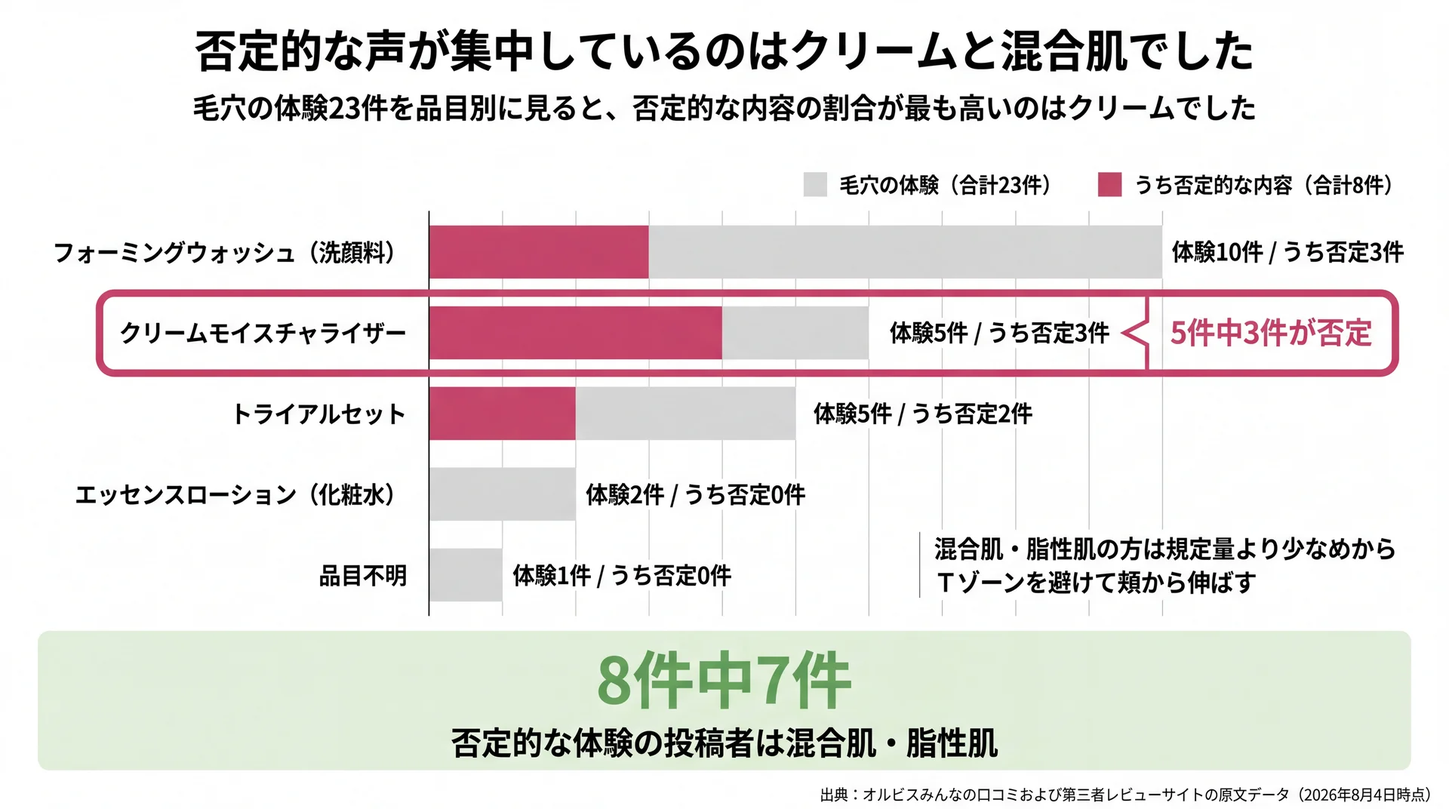
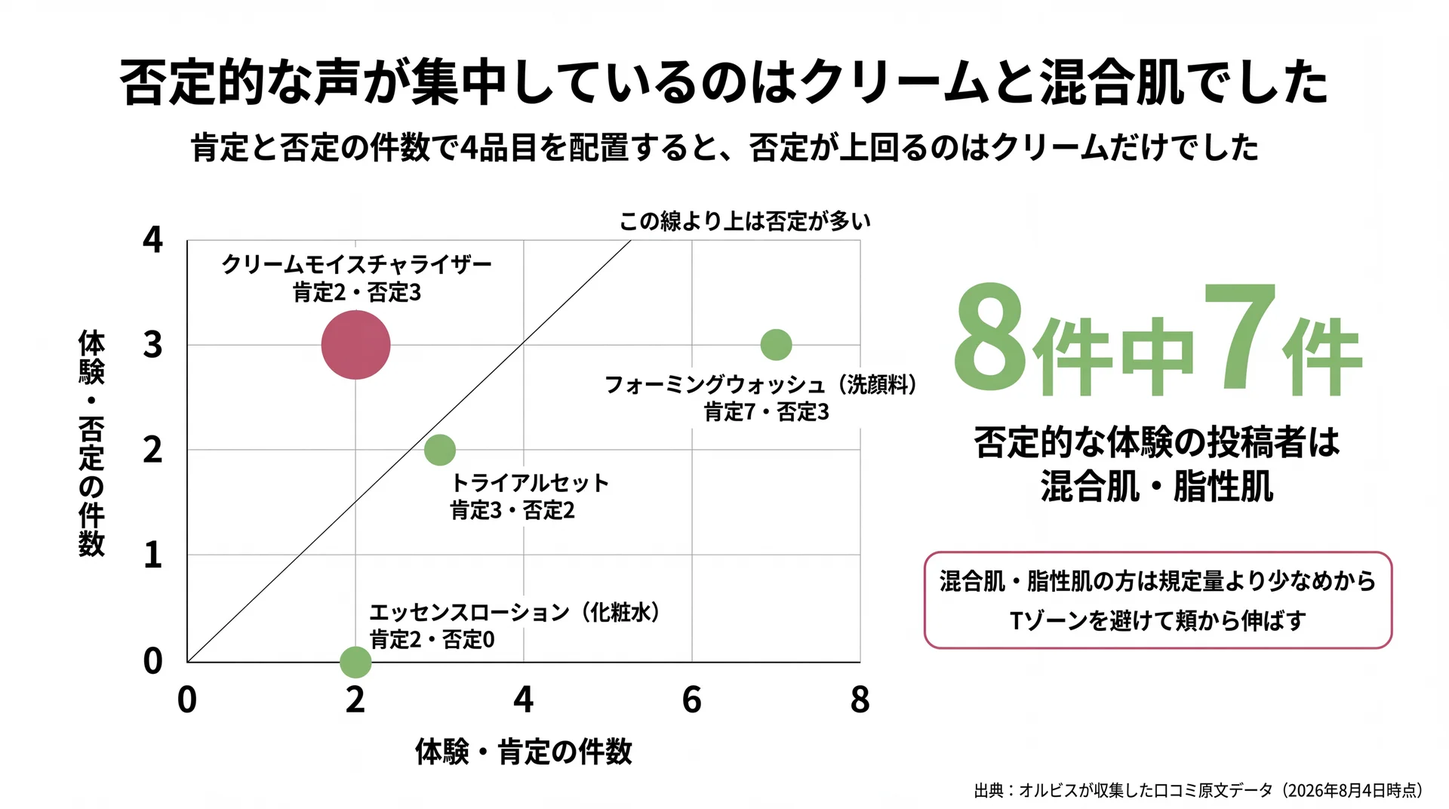
publish: orbis-u-dot-pore-visible-v3

diff --git a/2026/08/orbis-u-dot-pore-visible-v3.html b/2026/08/orbis-u-dot-pore-visible-v3.html
@@ -59,10 +59,10 @@
 <!-- wp:group {"style":{"border":{"radius":"16px","color":"#088010","style":"solid","width":"1px"},"spacing":{"padding":{"top":"24px","right":"20px","bottom":"24px","left":"20px"}}},"layout":{"type":"constrained"}} -->
 <div class="wp-block-group has-border-color" style="border-color:#088010;border-style:solid;border-width:1px;border-radius:16px;padding-top:24px;padding-right:20px;padding-bottom:24px;padding-left:20px">
 <!-- wp:paragraph {"align":"center","style":{"typography":{"fontWeight":"700"}}} -->
-<p class="has-text-align-center" style="font-weight:700">＼ 特別セット7日間分980円 ／</p>
+<p class="has-text-align-center" style="font-weight:700">＼ 7日間トライアル980円 ／</p>
 <!-- /wp:paragraph -->
 <!-- wp:paragraph {"align":"center"} -->
-<p class="has-text-align-center">洗顔料・化粧水・クリームの3STEPが7日間分入っています。<br>＊オルビス初めての方限定</p>
+<p class="has-text-align-center">洗顔・化粧水・クリームの3STEPが7日間分入っています。</p>
 <!-- /wp:paragraph -->
 <!-- wp:buttons {"layout":{"type":"flex","justifyContent":"center"}} -->
 <div class="wp-block-buttons is-content-justification-center is-layout-flex wp-container-content-justification-center wp-block-buttons-is-layout-flex"><!-- wp:button {"style":{"border":{"radius":"999px"},"color":{"background":"#40A800","text":"#ffffff"}}} -->
@@ -71,26 +71,26 @@
 <!-- /wp:buttons -->
 </div>
 <!-- /wp:group --><h2 style="font-size:24px; font-weight:600; margin:32px 0 16px; padding-bottom:8px; border-bottom:1px solid #eaeef2; line-height:1.3;">毛穴が目立つという声は口コミ859件のうち何件あったのか</h2>
-<p style="margin:14px 0; line-height:1.7;"><img src="https://shun-toda.github.io/html-publish/2026/08/orbis-u-dot-pore-visible-v3/h2_01_%E5%8F%A3%E3%82%B3%E3%83%9F859%E4%BB%B6_%E5%86%85%E8%A8%B3.webp" alt="口コミ859件のうち集計対象852件から毛穴に言及した46件、体験23件、目立つようになった体験8件へと絞り込んだ内訳の図" loading="lazy" style="max-width:100%; height:auto; display:block; margin:16px auto; border-radius:6px;" /><br><em>集計対象852件のうち毛穴が目立つようになった体験は8件で、うち7件が混合肌・脂性肌でした（オルビスみんなの口コミおよび第三者レビューサイトの原文データに基づく）</em></p>
-<p style="margin:14px 0; line-height:1.7;">オルビスユー ドットの口コミ859件を集め、対象外を除いた852件のうち、毛穴に触れていた投稿は46件でした。内訳は、自分の毛穴の変化を書いた体験が23件、それ以外が23件です。体験23件のうち、毛穴が目立つようになったという否定的な内容は8件でした。</p>
+<p style="margin:14px 0; line-height:1.7;"><img src="https://shun-toda.github.io/html-publish/2026/08/orbis-u-dot-pore-visible-v3/h2_01_%E5%8F%A3%E3%82%B3%E3%83%9F859%E4%BB%B6_%E5%86%85%E8%A8%B3.webp" alt="口コミ852件から毛穴に言及した46件、体験23件、目立つようになった体験8件へと絞り込んだ内訳の図" loading="lazy" style="max-width:100%; height:auto; display:block; margin:16px auto; border-radius:6px;" /><br><em>集計対象852件のうち毛穴が目立つようになった体験は8件で、うち7件が混合肌・脂性肌でした（オルビスが収集した口コミ原文データに基づく）</em></p>
+<p style="margin:14px 0; line-height:1.7;">オルビスユー ドットの口コミ859件を集め、対象外を除いた852件のうち、毛穴に触れていた投稿は46件でした。内訳は、自分の毛穴の変化を書いた体験が23件、それ以外が23件です。体験23件をさらに分けると、目立ちにくくなったという肯定が15件、目立つようになったという否定が8件でした。</p>
 <h3 style="font-size:20px; font-weight:600; margin:24px 0 12px; line-height:1.3;">毛穴に触れた投稿は46件、否定的な体験は8件</h3>
-<p style="margin:14px 0; line-height:1.7;">検索結果を眺めるだけでは、毛穴が目立つようになったという声がどれだけあるのかは分かりません。オルビスはオルビスみんなの口コミと第三者のレビューサイトから集めた859件の原文を1件ずつ読み、毛穴に触れた投稿を抜き出して分類しました。</p>
+<p style="margin:14px 0; line-height:1.7;">インターネット上には「毛穴が目立つ」という投稿も「目立たなくなった」という投稿も並んでおり、どちらが多いのかは検索結果を眺めるだけでは分かりません。そこでオルビスは、公式サイトと第三者のレビューサイトから集めた859件の原文を1件ずつ読み、毛穴に触れた投稿を抜き出して分類しました。結果が下の表です。</p>
 <div style="overflow-x:auto; margin:18px 0;"><table style="border-collapse:collapse; width:100%; font-size:14px;">
 <thead style="background:#f6f8fa;">
 <tr>
 <th style="border:1px solid #d0d7de; padding:8px 12px; text-align:left; font-weight:600;">収集元</th>
 <th style="border:1px solid #d0d7de; padding:8px 12px; text-align:right; font-weight:600;">収集件数</th>
 <th style="border:1px solid #d0d7de; padding:8px 12px; text-align:right; font-weight:600;">毛穴に言及</th>
-<th style="border:1px solid #d0d7de; padding:8px 12px; text-align:right; font-weight:600;">毛穴の体験</th>
-<th style="border:1px solid #d0d7de; padding:8px 12px; text-align:right; font-weight:600;">うち否定的な内容</th>
+<th style="border:1px solid #d0d7de; padding:8px 12px; text-align:right; font-weight:600;">体験・肯定</th>
+<th style="border:1px solid #d0d7de; padding:8px 12px; text-align:right; font-weight:600;">体験・否定</th>
 <th style="border:1px solid #d0d7de; padding:8px 12px; text-align:right; font-weight:600;">体験ではない</th>
 </tr>
 </thead>
 <tbody><tr>
-<td style="border:1px solid #d0d7de; padding:8px 12px;">オルビスみんなの口コミ（公式サイト）</td>
+<td style="border:1px solid #d0d7de; padding:8px 12px;">オルビス公式サイト</td>
 <td style="border:1px solid #d0d7de; padding:8px 12px; text-align:right;">318</td>
 <td style="border:1px solid #d0d7de; padding:8px 12px; text-align:right;">15</td>
-<td style="border:1px solid #d0d7de; padding:8px 12px; text-align:right;">13</td>
+<td style="border:1px solid #d0d7de; padding:8px 12px; text-align:right;">9</td>
 <td style="border:1px solid #d0d7de; padding:8px 12px; text-align:right;">4</td>
 <td style="border:1px solid #d0d7de; padding:8px 12px; text-align:right;">2</td>
 </tr>
@@ -98,7 +98,7 @@
 <td style="border:1px solid #d0d7de; padding:8px 12px;">第三者レビューサイトA</td>
 <td style="border:1px solid #d0d7de; padding:8px 12px; text-align:right;">88</td>
 <td style="border:1px solid #d0d7de; padding:8px 12px; text-align:right;">6</td>
-<td style="border:1px solid #d0d7de; padding:8px 12px; text-align:right;">2</td>
+<td style="border:1px solid #d0d7de; padding:8px 12px; text-align:right;">1</td>
 <td style="border:1px solid #d0d7de; padding:8px 12px; text-align:right;">1</td>
 <td style="border:1px solid #d0d7de; padding:8px 12px; text-align:right;">4</td>
 </tr>
@@ -106,7 +106,7 @@
 <td style="border:1px solid #d0d7de; padding:8px 12px;">第三者レビューサイトB</td>
 <td style="border:1px solid #d0d7de; padding:8px 12px; text-align:right;">382</td>
 <td style="border:1px solid #d0d7de; padding:8px 12px; text-align:right;">23</td>
-<td style="border:1px solid #d0d7de; padding:8px 12px; text-align:right;">6</td>
+<td style="border:1px solid #d0d7de; padding:8px 12px; text-align:right;">3</td>
 <td style="border:1px solid #d0d7de; padding:8px 12px; text-align:right;">3</td>
 <td style="border:1px solid #d0d7de; padding:8px 12px; text-align:right;">17</td>
 </tr>
@@ -122,7 +122,7 @@
 <td style="border:1px solid #d0d7de; padding:8px 12px;"><strong>合計</strong></td>
 <td style="border:1px solid #d0d7de; padding:8px 12px; text-align:right;"><strong>852</strong></td>
 <td style="border:1px solid #d0d7de; padding:8px 12px; text-align:right;"><strong>46</strong></td>
-<td style="border:1px solid #d0d7de; padding:8px 12px; text-align:right;"><strong>23</strong></td>
+<td style="border:1px solid #d0d7de; padding:8px 12px; text-align:right;"><strong>15</strong></td>
 <td style="border:1px solid #d0d7de; padding:8px 12px; text-align:right;"><strong>8</strong></td>
 <td style="border:1px solid #d0d7de; padding:8px 12px; text-align:right;"><strong>23</strong></td>
 </tr>
@@ -131,17 +131,16 @@
 <ul style="margin:14px 0; padding-left:1.6em; line-height:1.7;">
 <li style="margin:4px 0;">対象：オルビスユー ドットシリーズ4品（フォーミングウォッシュ／エッセンスローション／クリームモイスチャライザー／トライアルセット）のレビュー原文</li>
 <li style="margin:4px 0;">N数：859件（2026年8月4日時点で取得）。うちモール1サイト7件は本文と評価の紐付けが取れず対象外商品への投稿だったため除外し、852件を集計対象としました</li>
-<li style="margin:4px 0;">集計方法：本文またはタイトルに「毛穴」を含む投稿を全件抽出し、1件ずつ読んで体験か否か、毛穴が目立つようになったという否定的な内容かどうかを判定</li>
-<li style="margin:4px 0;">データ出典：オルビスみんなの口コミ、および第三者レビューサイト・大手通販サイトの投稿原文</li>
+<li style="margin:4px 0;">集計方法：本文またはタイトルに「毛穴」を含む投稿を全件抽出し、1件ずつ読んで体験か否か、肯定か否定かを判定</li>
+<li style="margin:4px 0;">データ出典：オルビスが収集した口コミ原文データ</li>
 </ul>
-<p style="margin:14px 0; line-height:1.7;">※分類のもとになった投稿はいずれも個人の感想であり、効果を保証するものではありません。投稿本文は原文のまま掲載せず、分類のうえ件数へ集約し、内容は要約しています。</p>
 <p style="margin:14px 0; line-height:1.7;"><span style="background:linear-gradient(transparent 60%,#FFFF00 60%)"><strong>毛穴について否定的な体験を書いていたのは、852件中8件でした。</strong></span>この8件のうち2件は本文が完全に一致しており、同じ投稿が2つのサイトに掲載されたものです。投稿者の実数としては7名になります。</p>
-<h3 style="font-size:20px; font-weight:600; margin:24px 0 12px; line-height:1.3;">注目すべきは件数の多寡ではなく、否定した8件の条件です</h3>
-<p style="margin:14px 0; line-height:1.7;">ただしオルビスは、否定的な体験が8件にとどまることをもって「毛穴の心配はない」と結論づけるのは早いと考えています。母数852件に対して毛穴に触れた投稿そのものが46件（5.4%）しかなく、毛穴は多くの利用者にとって主要な話題になっていないためです。<strong>大切なのは全体の多数決ではなく、否定した8件がどういう条件の人だったのか</strong>という点になります。</p>
-<p style="margin:14px 0; line-height:1.7;">なお、毛穴以外も含めた否定的な評価がどの論点に集中しているのか、効果が出ないと言われる理由や判断までにかかる期間の目安は、<a href="/column/udot-review/" style="color:#0969da; text-decoration:none; border-bottom:1px solid #eaeef2;">悪い口コミが何に集中しているかを検証した記事</a>で整理しています。年代を絞った評価の傾向については、<a href="/column/udot-review-40s/" style="color:#0969da; text-decoration:none; border-bottom:1px solid #eaeef2;">40代の口コミではどう評価されているか</a>をご覧ください。</p>
+<h3 style="font-size:20px; font-weight:600; margin:24px 0 12px; line-height:1.3;">肯定側は15件で、否定側の2倍近くありました</h3>
+<p style="margin:14px 0; line-height:1.7;">肯定側は15件で、否定側8件のおよそ2倍でした。ただしオルビスは、この比率だけで「毛穴の心配はない」と結論づけるのは早いと考えています。母数852件に対して毛穴に触れた投稿そのものが46件（5.4%）しかなく、毛穴は多くの利用者にとって主要な話題になっていないためです。<strong>大切なのは全体の多数決ではなく、否定した8件がどういう条件の人だったのか</strong>という点になります。</p>
+<p style="margin:14px 0; line-height:1.7;">なお、毛穴以外も含めた否定的な評価がどの論点に集中しているのかは、<a href="/column/udot-review/" style="color:#0969da; text-decoration:none; border-bottom:1px solid #eaeef2;">悪い口コミが何に集中しているかを検証した記事</a>で論点ごとに整理しています。効果が出ないと言われる理由や、判断までにかかる期間の目安もそちらで扱っています。年代を絞った評価の傾向については、<a href="/column/udot-review-40s/" style="color:#0969da; text-decoration:none; border-bottom:1px solid #eaeef2;">40代の口コミではどう評価されているか</a>をご覧ください。</p>
 <h2 style="font-size:24px; font-weight:600; margin:32px 0 16px; padding-bottom:8px; border-bottom:1px solid #eaeef2; line-height:1.3;">「毛穴」を含む投稿の半数は毛穴の体験談ではありませんでした</h2>
-<p style="margin:14px 0; line-height:1.7;"><img src="https://shun-toda.github.io/html-publish/2026/08/orbis-u-dot-pore-visible-v3/h2_02_%E4%BD%93%E9%A8%93%E8%AB%87%E3%81%8B%E5%90%A6%E3%81%8B.webp" alt="毛穴に言及した46件の体験と非体験の割合を、収集元ごとに並べた比較の図" loading="lazy" style="max-width:100%; height:auto; display:block; margin:16px auto; border-radius:6px;" /><br><em>公式サイトは15件中13件が体験、第三者レビューサイトBは23件中17件が体験ではありませんでした（オルビスみんなの口コミおよび第三者レビューサイトの原文データに基づく）</em></p>
-<p style="margin:14px 0; line-height:1.7;">毛穴に触れた46件のうち、実際に自分の毛穴の変化を書いていたのは23件で、残る23件は体験ではありませんでした。商品説明の転記やハッシュタグだけの記載などが含まれ、今回の集計では投稿数の多いサイトほどこの比率が高くなりました。</p>
+<p style="margin:14px 0; line-height:1.7;"><img src="https://shun-toda.github.io/html-publish/2026/08/orbis-u-dot-pore-visible-v3/h2_02_%E4%BD%93%E9%A8%93%E8%AB%87%E3%81%8B%E5%90%A6%E3%81%8B.webp" alt="毛穴に言及した46件の体験と非体験の割合を、収集元ごとに並べた比較の図" loading="lazy" style="max-width:100%; height:auto; display:block; margin:16px auto; border-radius:6px;" /><br><em>公式サイトは15件中13件が体験、第三者レビューサイトBは23件中17件が体験ではありませんでした（オルビスが収集した口コミ原文データに基づく）</em></p>
+<p style="margin:14px 0; line-height:1.7;">毛穴に触れた46件のうち、実際に自分の毛穴の変化を書いていたのは23件で、残る23件は体験ではありませんでした。商品説明の転記、ハッシュタグだけの記載、他商品の話、購入動機のみの記述などが含まれます。投稿数の多いサイトほどこの比率が高くなる傾向がありました。</p>
 <h3 style="font-size:20px; font-weight:600; margin:24px 0 12px; line-height:1.3;">体験ではなかった23件の内訳</h3>
 <p style="margin:14px 0; line-height:1.7;">「毛穴」という語を含むだけで体験談として読むと、実際の使用結果とは無関係な投稿まで判断材料に入ってしまいます。46件を読み分けた結果、体験ではなかった23件は次の5類型に整理できました。</p>
 <div style="overflow-x:auto; margin:18px 0;"><table style="border-collapse:collapse; width:100%; font-size:14px;">
@@ -180,23 +179,23 @@
 </tbody></table></div>
 <p style="margin:14px 0; line-height:1.7;">このうち「他商品の話」8件は、複数商品を並べたまとめ投稿の中にオルビスユー ドットが1行だけ登場するもので、毛穴の記述は別の商品についてでした。<span style="color:red"><strong>検索で見つかる投稿の半数は、その商品の毛穴の結果を書いたものではありません。</strong></span></p>
 <h3 style="font-size:20px; font-weight:600; margin:24px 0 12px; line-height:1.3;">投稿数が多いサイトほど体験の比率が下がります</h3>
-<p style="margin:14px 0; line-height:1.7;">第三者レビューサイトBでは毛穴に言及した23件のうち17件（約74%）が体験ではありませんでした。一方でオルビス公式サイトは15件中13件が体験で、非体験は2件だけです。</p>
-<p style="margin:14px 0; line-height:1.7;">この差は、投稿の集め方の違いから生まれています。第三者レビューサイトBには提供を受けた投稿やキャンペーン参加の投稿が多く、商品説明がそのまま本文に転記されているケースが目立ちました。<strong>オルビスは、口コミを件数の多さで比べるのではなく、その1件が実際の使用体験かどうかで読んでいただきたいと考えています。</strong>投稿を開いたら、まず本文に自分の肌の変化が書かれているかを確認してみてください。それだけで判断材料の質は大きく変わります。</p>
+<p style="margin:14px 0; line-height:1.7;">サイト別に見ると差がはっきりします。第三者レビューサイトBでは毛穴に言及した23件のうち17件（約74%）が体験ではありませんでした。一方でオルビス公式サイトは15件中13件が体験で、非体験は2件だけです。</p>
+<p style="margin:14px 0; line-height:1.7;">この差は、投稿の集め方の違いから生まれています。第三者レビューサイトBには提供を受けた投稿やキャンペーン参加の投稿が多く、商品説明がそのまま本文に転記されているケースが目立ちました。<strong>オルビスは、口コミを件数の多さで比べるのではなく、その1件が実際の使用体験かどうかで読んでいただきたいと考えています。</strong>投稿を開いたら、まず本文に自分の肌の変化が書かれているかを確認する。それだけで判断材料の質は大きく変わります。</p>
 <h2 style="font-size:24px; font-weight:600; margin:32px 0 16px; padding-bottom:8px; border-bottom:1px solid #eaeef2; line-height:1.3;">否定的な声が集中しているのはクリームと混合肌でした</h2>
-<p style="margin:14px 0; line-height:1.7;"><img src="https://shun-toda.github.io/html-publish/2026/08/orbis-u-dot-pore-visible-v3/h2_03_%E5%93%81%E7%9B%AE%E5%88%A5_%E8%82%8C%E8%B3%AA%E5%88%A5.webp" alt="品目別・肌質別に毛穴の体験件数と否定的な内容の件数を並べ、クリームと混合肌・脂性肌に否定が集中していることを示した図" loading="lazy" style="max-width:100%; height:auto; display:block; margin:16px auto; border-radius:6px;" /><br><em>否定的な体験の割合が最も高いのはクリームで、8件中7件は混合肌・脂性肌の方でした（オルビスみんなの口コミおよび第三者レビューサイトの原文データに基づく）</em></p>
-<p style="margin:14px 0; line-height:1.7;">否定的な体験8件を品目別に見ると、クリームモイスチャライザー3件、トライアルセット2件、フォーミングウォッシュ3件でした。投稿者の肌質では混合肌が6件、脂性肌が1件で、皮脂が出やすい肌質が8件中7件を占めています。</p>
+<p style="margin:14px 0; line-height:1.7;"><img src="https://shun-toda.github.io/html-publish/2026/08/orbis-u-dot-pore-visible-v3/h2_03_%E5%93%81%E7%9B%AE%E5%88%A5_%E8%82%8C%E8%B3%AA%E5%88%A5.webp" alt="肯定件数と否定件数を2軸に取り、4品目のうちクリームだけ否定が上回る位置にあることを示した配置図" loading="lazy" style="max-width:100%; height:auto; display:block; margin:16px auto; border-radius:6px;" /><br><em>否定が肯定を上回るのはクリームのみで、否定的な体験8件中7件は混合肌・脂性肌の方でした（オルビスが収集した口コミ原文データに基づく）</em></p>
+<p style="margin:14px 0; line-height:1.7;">否定的な体験8件を品目別に見ると、クリームモイスチャライザー3件、トライアルセット2件、フォーミングウォッシュ3件でした。投稿者の肌質では混合肌が6件、脂性肌が1件で、皮脂が出やすい肌質が8件中7件を占めています。肯定側15件とは分布がはっきり分かれました。</p>
 <h3 style="font-size:20px; font-weight:600; margin:24px 0 12px; line-height:1.3;">品目別・肌質別の分布</h3>
 <div style="overflow-x:auto; margin:18px 0;"><table style="border-collapse:collapse; width:100%; font-size:14px;">
 <thead style="background:#f6f8fa;">
 <tr>
 <th style="border:1px solid #d0d7de; padding:8px 12px; text-align:left; font-weight:600;">品目</th>
-<th style="border:1px solid #d0d7de; padding:8px 12px; text-align:right; font-weight:600;">毛穴の体験</th>
-<th style="border:1px solid #d0d7de; padding:8px 12px; text-align:right; font-weight:600;">うち否定的な内容</th>
+<th style="border:1px solid #d0d7de; padding:8px 12px; text-align:right; font-weight:600;">体験・肯定</th>
+<th style="border:1px solid #d0d7de; padding:8px 12px; text-align:right; font-weight:600;">体験・否定</th>
 </tr>
 </thead>
 <tbody><tr>
 <td style="border:1px solid #d0d7de; padding:8px 12px;">フォーミングウォッシュ（洗顔料）</td>
-<td style="border:1px solid #d0d7de; padding:8px 12px; text-align:right;">10</td>
+<td style="border:1px solid #d0d7de; padding:8px 12px; text-align:right;">7</td>
 <td style="border:1px solid #d0d7de; padding:8px 12px; text-align:right;">3</td>
 </tr>
 <tr>
@@ -206,12 +205,12 @@
 </tr>
 <tr>
 <td style="border:1px solid #d0d7de; padding:8px 12px;">クリームモイスチャライザー</td>
-<td style="border:1px solid #d0d7de; padding:8px 12px; text-align:right;">5</td>
+<td style="border:1px solid #d0d7de; padding:8px 12px; text-align:right;">2</td>
 <td style="border:1px solid #d0d7de; padding:8px 12px; text-align:right;">3</td>
 </tr>
 <tr>
 <td style="border:1px solid #d0d7de; padding:8px 12px;">トライアルセット</td>
-<td style="border:1px solid #d0d7de; padding:8px 12px; text-align:right;">5</td>
+<td style="border:1px solid #d0d7de; padding:8px 12px; text-align:right;">3</td>
 <td style="border:1px solid #d0d7de; padding:8px 12px; text-align:right;">2</td>
 </tr>
 <tr>
@@ -224,23 +223,23 @@
 <thead style="background:#f6f8fa;">
 <tr>
 <th style="border:1px solid #d0d7de; padding:8px 12px; text-align:left; font-weight:600;">投稿者の肌質</th>
-<th style="border:1px solid #d0d7de; padding:8px 12px; text-align:right; font-weight:600;">毛穴の体験</th>
-<th style="border:1px solid #d0d7de; padding:8px 12px; text-align:right; font-weight:600;">うち否定的な内容</th>
+<th style="border:1px solid #d0d7de; padding:8px 12px; text-align:right; font-weight:600;">体験・肯定</th>
+<th style="border:1px solid #d0d7de; padding:8px 12px; text-align:right; font-weight:600;">体験・否定</th>
 </tr>
 </thead>
 <tbody><tr>
 <td style="border:1px solid #d0d7de; padding:8px 12px;">混合肌</td>
-<td style="border:1px solid #d0d7de; padding:8px 12px; text-align:right;">8</td>
+<td style="border:1px solid #d0d7de; padding:8px 12px; text-align:right;">2</td>
 <td style="border:1px solid #d0d7de; padding:8px 12px; text-align:right;">6</td>
 </tr>
 <tr>
 <td style="border:1px solid #d0d7de; padding:8px 12px;">脂性肌</td>
-<td style="border:1px solid #d0d7de; padding:8px 12px; text-align:right;">1</td>
+<td style="border:1px solid #d0d7de; padding:8px 12px; text-align:right;">0</td>
 <td style="border:1px solid #d0d7de; padding:8px 12px; text-align:right;">1</td>
 </tr>
 <tr>
 <td style="border:1px solid #d0d7de; padding:8px 12px;">乾燥肌・乾性肌</td>
-<td style="border:1px solid #d0d7de; padding:8px 12px; text-align:right;">4</td>
+<td style="border:1px solid #d0d7de; padding:8px 12px; text-align:right;">3</td>
 <td style="border:1px solid #d0d7de; padding:8px 12px; text-align:right;">1</td>
 </tr>
 <tr>
@@ -259,17 +258,17 @@
 <td style="border:1px solid #d0d7de; padding:8px 12px; text-align:right;">0</td>
 </tr>
 </tbody></table></div>
-<p style="margin:14px 0; line-height:1.7;">体験件数に対する否定の割合が最も高いのはクリームモイスチャライザー（5件中3件）で、肌質では<span style="background:linear-gradient(transparent 60%,#FFFF00 60%)"><strong>否定8件のうち混合肌・脂性肌が7件</strong></span>を占めます。一方で敏感肌6件・普通肌1件からは否定的な体験が出ていません。同じ商品でも、肌質によって受け取り方がこれだけ分かれています。</p>
+<p style="margin:14px 0; line-height:1.7;">肯定側15件のうち敏感肌と乾燥肌・乾性肌が9件を占めるのに対し、<span style="background:linear-gradient(transparent 60%,#FFFF00 60%)"><strong>否定側は混合肌・脂性肌が7件</strong></span>です。同じ商品に対する評価が、肌質でこれだけ分かれています。</p>
 <h3 style="font-size:20px; font-weight:600; margin:24px 0 12px; line-height:1.3;">密着感の強い設計と、皮脂が出やすい条件での使い方</h3>
-<p style="margin:14px 0; line-height:1.7;">否定側の記述に共通していたのは、塗った後の膜のような感触とべたつきでした。これはクリームモイスチャライザーの設計と対応しています。オルビスはこのクリームに、<a href="https://www.orbis.co.jp/small/11010753/" style="color:#0969da; text-decoration:none; border-bottom:1px solid #eaeef2;">体温に触れるとしなやかに密着する成分と、うるおいを肌に閉じ込める成分</a>を意図して採用しています。</p>
-<p style="margin:14px 0; line-height:1.7;">密着させる設計である以上、皮脂が出やすい季節と肌質では量の調整が要ります。<strong>混合肌・脂性肌の方は、まず規定量より少なめから始め、Tゾーンを避けて頬から伸ばす</strong>使い方をおすすめします。なお、べたつきや重さそのものへの評価は毛穴とは別の論点であり、<a href="/column/udot-review/" style="color:#0969da; text-decoration:none; border-bottom:1px solid #eaeef2;">3品それぞれの評価の序列</a>は親ハブの記事で整理しています。</p>
+<p style="margin:14px 0; line-height:1.7;">否定側の記述に共通していたのは、塗った後の膜のような感触とべたつきでした。これはクリームモイスチャライザーの設計と対応しています。オルビスは、このクリームに<a href="https://www.orbis.co.jp/small/11010753/" style="color:#0969da; text-decoration:none; border-bottom:1px solid #eaeef2;">体温に触れるとしなやかに密着しハリ膜を形成する成分</a>（温度応答性弾力ポリマー＝メチルセルロース）と、うるおいを肌に閉じ込め、ハリのある肌を持続させる成分（ハイドロラッピングポリマー＝ポリエチレンワックス）を意図して採用しています。<a href="https://www.orbis.co.jp/mid/915/" style="color:#0969da; text-decoration:none; border-bottom:1px solid #eaeef2;">シリーズページ</a>では前者を「まろやかに伸びた後、皮膚温伝播で弾力の高い膜を形成」、後者を「水に強い油性成分のため、汗などで流れずに長時間留まる膜を形成して、うるおいを閉じ込める」と説明しています。否定側が書いていた膜のような感触は、この2つのポリマーが狙って作っている膜そのものです。</p>
+<p style="margin:14px 0; line-height:1.7;">密着させる設計である以上、皮脂が出やすい季節と肌質では量の調整が要ります。<strong>混合肌・脂性肌の方は、まず規定量より少なめから始め、Tゾーンを避けて頬から伸ばす</strong>使い方をおすすめします。オルビスがこの点を先にお伝えするのは、合わない条件を隠したまま買っていただくほうが、読者にとっての損失が大きいと考えているためです。なお、べたつきや重さそのものへの評価は毛穴とは別の論点として扱っており、3品それぞれの評価の序列は親ハブの記事で整理しています。</p>
 <!-- wp:group {"style":{"border":{"radius":"16px","color":"#088010","style":"solid","width":"1px"},"spacing":{"padding":{"top":"24px","right":"20px","bottom":"24px","left":"20px"}}},"layout":{"type":"constrained"}} -->
 <div class="wp-block-group has-border-color" style="border-color:#088010;border-style:solid;border-width:1px;border-radius:16px;padding-top:24px;padding-right:20px;padding-bottom:24px;padding-left:20px">
 <!-- wp:paragraph {"align":"center","style":{"typography":{"fontWeight":"700"}}} -->
-<p class="has-text-align-center" style="font-weight:700">＼ 特別セット7日間分980円 ／</p>
+<p class="has-text-align-center" style="font-weight:700">＼ 約44%OFF・数量限定 ／</p>
 <!-- /wp:paragraph -->
 <!-- wp:paragraph {"align":"center"} -->
-<p class="has-text-align-center">現品を買う前に、自分の肌で使用感を確かめられます。<br>＊オルビス初めての方限定</p>
+<p class="has-text-align-center">現品を買う前に、自分の肌で使用感を確かめられます。</p>
 <!-- /wp:paragraph -->
 <!-- wp:buttons {"layout":{"type":"flex","justifyContent":"center"}} -->
 <div class="wp-block-buttons is-content-justification-center is-layout-flex wp-container-content-justification-center wp-block-buttons-is-layout-flex"><!-- wp:button {"style":{"border":{"radius":"999px"},"color":{"background":"#40A800","text":"#ffffff"}}} -->
@@ -278,18 +277,19 @@
 <!-- /wp:buttons -->
 </div>
 <!-- /wp:group --><h2 style="font-size:24px; font-weight:600; margin:32px 0 16px; padding-bottom:8px; border-bottom:1px solid #eaeef2; line-height:1.3;">洗顔料は毛穴の汚れに向いているのか</h2>
-<p style="margin:14px 0; line-height:1.7;">フォーミングウォッシュで毛穴に触れた体験は10件で、うち否定的な内容は3件でした。否定3件はいずれも「汚れが落ちた手応えがない」「黒ずみのある毛穴は変わらなかった」という内容で、洗浄が足りないという方向です。オルビスはこの洗顔料の毛穴に関わる働きを、洗浄という物理的効果の範囲で説明しています。</p>
-<h3 style="font-size:20px; font-weight:600; margin:24px 0 12px; line-height:1.3;">洗顔料に触れた体験10件のうち否定は3件</h3>
-<p style="margin:14px 0; line-height:1.7;">毛穴に触れた洗顔料の投稿10件のうち7件は、洗い上がりの感触について書かれた内容でした。残る3件は、角栓や黒ずみが気になっていた方からの「変わらなかった」という記述です。<strong>つまり洗顔料に対する評価は、その方が何を毛穴の悩みだと捉えていたかで分かれています。</strong></p>
-<p style="margin:14px 0; line-height:1.7;">第三者評価としては、フォーミングウォッシュが<a href="https://www.orbis.co.jp/mid/915/" style="color:#0969da; text-decoration:none; border-bottom:1px solid #eaeef2;">2023年下半期のコスメアワード 洗顔部門1位</a>に選出されています。ただしこれは洗顔料としての総合評価であり、オルビスもこの受賞を毛穴の裏づけとしては示していません。</p>
+<p style="margin:14px 0; line-height:1.7;">フォーミングウォッシュへの毛穴に関する言及は、肯定7件・否定3件でした。否定3件はいずれも「汚れが落ちた手応えがない」「黒ずみのある毛穴は変わらなかった」という内容で、洗浄が足りないという方向です。オルビスはこの洗顔料の毛穴に関わる働きを、洗浄という物理的効果の範囲で説明しています。</p>
+<h3 style="font-size:20px; font-weight:600; margin:24px 0 12px; line-height:1.3;">洗顔料への言及は肯定7件・否定3件</h3>
+<p style="margin:14px 0; line-height:1.7;">毛穴に触れた洗顔料の投稿10件のうち7件は、洗い上がりのざらつきが減ったという内容でした。残る3件は、角栓や黒ずみが気になっていた方からの「変わらなかった」という記述です。<strong>つまり洗顔料に対する評価は、その方が何を毛穴の悩みだと捉えていたかで分かれています。</strong></p>
+<p style="margin:14px 0; line-height:1.7;">第三者評価としては、フォーミングウォッシュが<a href="https://www.orbis.co.jp/mid/915/" style="color:#0969da; text-decoration:none; border-bottom:1px solid #eaeef2;">VOCE 2023年下半期ベストコスメ洗顔部門1位</a>を受賞しています。ただしこれは洗顔料としての総合評価であり、毛穴に対する評価ではありません。オルビスとしても、この受賞を毛穴の裏づけとして示すことはしていません。</p>
 <h3 style="font-size:20px; font-weight:600; margin:24px 0 12px; line-height:1.3;">公式が洗顔料について表示している範囲</h3>
 <p style="margin:14px 0; line-height:1.7;">オルビスがフォーミングウォッシュの商品ページで表示しているのは、<a href="https://www.orbis.co.jp/small/11010751/" style="color:#0969da; text-decoration:none; border-bottom:1px solid #eaeef2;">蓄積した角層※1を絡めとる高密着マイルドピーリング※2洗顔料</a>という説明です（※1 剥がれずに肌に蓄積した古い角層／※2 洗浄による物理的効果）。肌荒れ防止有効成分としてグリチルリチン酸ジカリウムを配合した医薬部外品にあたります。</p>
+<p style="margin:14px 0; line-height:1.7;">絡めとる仕組みについて、オルビスは<a href="https://www.orbis.co.jp/mid/915/" style="color:#0969da; text-decoration:none; border-bottom:1px solid #eaeef2;">シリーズページ</a>で高密着泡成分（ヒドロキシプロピルメチルセルロース）が「吸着力をアップさせ蓄積した角層を絡めとりやすくする」と説明しています。またよくあるご質問では「スクラブやピーリング成分の配合はございません」と明記されており、マイルドピーリングという名称が指しているのは、あくまで泡の吸着による洗浄の範囲です。</p>
 <p style="margin:14px 0; line-height:1.7;">ここで<span style="color:red"><strong>「洗浄による物理的効果」と明示されている点が重要</strong></span>です。洗顔料が関与できるのは、表面に残っている汚れや古い角層を落とすところまでで、毛穴そのものの構造に働きかけるものではありません。角栓が主な原因だと感じている方が洗顔料だけで対処しようとすると、期待とのずれが生まれます。</p>
 <h2 style="font-size:24px; font-weight:600; margin:32px 0 16px; padding-bottom:8px; border-bottom:1px solid #eaeef2; line-height:1.3;">オルビスが毛穴を2つに分けている理由</h2>
-<p style="margin:14px 0; line-height:1.7;"><img src="https://shun-toda.github.io/html-publish/2026/08/orbis-u-dot-pore-visible-v3/h2_04_%E7%9A%AE%E8%84%82%E6%AF%9B%E7%A9%B4_%E5%B9%B4%E9%BD%A2%E6%AF%9B%E7%A9%B4.webp" alt="皮脂毛穴と年齢毛穴で公式が案内するお手入れが分かれ、オルビスユー ドットは年齢毛穴側に案内されていることを示した分岐図" loading="lazy" style="max-width:100%; height:auto; display:block; margin:16px auto; border-radius:6px;" /><br><em>オルビスユー ドットが案内されているのは年齢毛穴のほうで、Tゾーンの角栓・皮脂が悩みの場合は別のお手入れが案内されています（オルビスの公式よくあるご質問に基づく）</em></p>
+<p style="margin:14px 0; line-height:1.7;"><img src="https://shun-toda.github.io/html-publish/2026/08/orbis-u-dot-pore-visible-v3/h2_04_%E7%9A%AE%E8%84%82%E6%AF%9B%E7%A9%B4_%E5%B9%B4%E9%BD%A2%E6%AF%9B%E7%A9%B4.webp" alt="皮脂毛穴と年齢毛穴で案内するお手入れが分かれる流れと、化粧品の効能56項目に毛穴の項目がないことを示した図" loading="lazy" style="max-width:100%; height:auto; display:block; margin:16px auto; border-radius:6px;" /><br><em>原因の区分ごとに案内が変わり、集計に出た肌質の偏りとも重なりました（出典: オルビス公式よくあるご質問／厚生労働省 平成23年7月21日 薬食発0721第1号 別表第1）</em></p>
 <p style="margin:14px 0; line-height:1.7;">オルビスは公式のよくあるご質問で、毛穴が目立つ原因を皮脂毛穴と年齢毛穴の2つに分けて説明しています。そのうえで、うるおいを与えるスキンケアシリーズをおすすめしているのは年齢毛穴のほうです。この区分を知ると、口コミの評価が肌質で分かれた理由も説明がつきます。</p>
 <h3 style="font-size:20px; font-weight:600; margin:24px 0 12px; line-height:1.3;">公式のよくあるご質問における皮脂毛穴と年齢毛穴</h3>
-<p style="margin:14px 0; line-height:1.7;"><a href="https://faq.orbis.co.jp/faq/show/200?category_id=48&site_domain=open" style="color:#0969da; text-decoration:none; border-bottom:1px solid #eaeef2;">毛穴が目立つときのお手入れってどうするの？</a>というページで、オルビスは次のように区分しています（2026年8月時点）。</p>
+<p style="margin:14px 0; line-height:1.7;"><a href="https://faq.orbis.co.jp/faq/show/200?category_id=48&site_domain=open" style="color:#0969da; text-decoration:none; border-bottom:1px solid #eaeef2;">毛穴が目立つときのお手入れってどうするの？</a>というページで、オルビスは次のように区分しています。</p>
 <div style="overflow-x:auto; margin:18px 0;"><table style="border-collapse:collapse; width:100%; font-size:14px;">
 <thead style="background:#f6f8fa;">
 <tr>
@@ -308,25 +308,25 @@
 <tr>
 <td style="border:1px solid #d0d7de; padding:8px 12px;">年齢毛穴</td>
 <td style="border:1px solid #d0d7de; padding:8px 12px;">毛穴周りの皮膚が陥没して目立つ毛穴。年齢とともにハリを保つ成分が減ることで生じる</td>
-<td style="border:1px solid #d0d7de; padding:8px 12px;">うるおいを与え、エイジングケア※3を意識したシリーズ（オルビスユー、オルビスユー ドット等）</td>
-<td style="border:1px solid #d0d7de; padding:8px 12px;">敏感肌・乾燥肌からの否定的な体験は1件</td>
+<td style="border:1px solid #d0d7de; padding:8px 12px;">うるおいを与え、エイジングケア※を意識したシリーズ（オルビスユー、オルビスユー ドット等）</td>
+<td style="border:1px solid #d0d7de; padding:8px 12px;">肯定15件のうち敏感肌・乾燥肌が9件</td>
 </tr>
 </tbody></table></div>
-<p style="margin:14px 0; line-height:1.7;">※3 年齢に応じたお手入れのこと</p>
+<p style="margin:14px 0; line-height:1.7;">※ 年齢に応じたお手入れのこと</p>
 <p style="margin:14px 0; line-height:1.7;"><strong>公式が案内しているのは年齢毛穴に対してであり、皮脂毛穴には別のお手入れを挙げています。</strong>集計で出た肌質の偏りは、この区分とそのまま重なりました。</p>
 <h3 style="font-size:20px; font-weight:600; margin:24px 0 12px; line-height:1.3;">化粧品の効能の範囲に毛穴という語はありません</h3>
 <p style="margin:14px 0; line-height:1.7;">そもそも化粧品が表示できる効能は、厚生労働省の通知（平成23年7月21日 薬食発0721第1号）で56項目に定められています。この<a href="https://www.mhlw.go.jp/web/t_doc?dataId=00tb7518&dataType=1&pageNo=" style="color:#0969da; text-decoration:none; border-bottom:1px solid #eaeef2;">別表第1</a>には、（17）汚れをおとすことにより皮膚を清浄にする、（20）肌のキメを整える、といった項目が並びますが、<span style="background:linear-gradient(transparent 60%,#FFFF00 60%)"><strong>「毛穴」という語を含む項目は1つもありません</strong></span>（2026年8月時点）。</p>
-<p style="margin:14px 0; line-height:1.7;">そのため広告で毛穴に触れる場合は、洗浄やキメを整えることの結果として注釈付きで示す形になります。実際、オルビスユー ドット3品の商品ページ本文にも毛穴の訴求はありません（2026年8月時点）。医薬部外品として承認されている効能は、化粧水とクリームに配合された美白※4有効成分トラネキサム酸によるもので、こちらも毛穴とは別の話です（※4 メラニンの生成を抑え、シミ・ソバカスを防ぐ）。</p>
+<p style="margin:14px 0; line-height:1.7;">そのため広告で毛穴に触れる場合は、洗浄やキメを整えることの結果として注釈付きで示す形になります。実際、オルビスユー ドット3品の商品ページ本文にも毛穴の訴求はありません（2026年8月時点）。医薬部外品として承認されている効能は、化粧水とクリームに配合された美白※有効成分トラネキサム酸によるもので、こちらも毛穴とは別の話です（※ メラニンの生成を抑え、シミ・ソバカスを防ぐ）。オルビスはこの成分を<a href="https://www.orbis.co.jp/mid/915/" style="color:#0969da; text-decoration:none; border-bottom:1px solid #eaeef2;">「情報伝達物質を抑制することでメラニン生成を抑える」</a>と説明しており、働きかける先はこれから作られるメラニンです。すでにあるシミを消したり、毛穴の状態を変えたりするものではありません。</p>
 <h3 style="font-size:20px; font-weight:600; margin:24px 0 12px; line-height:1.3;">オルビスの見解</h3>
-<p style="margin:14px 0; line-height:1.7;">オルビスは、オルビスユー ドットを毛穴の商品として案内していません。毛穴が目立つ理由は皮脂由来と年齢由来で異なり、同じ言葉で語ると読者の期待とずれるためです。そのうえで、否定的な声が混合肌・脂性肌とクリームに集中している事実もそのままお伝えします。<strong>合わない条件を先に知っていただくことが、返品や途中でのお取りやめよりお客様の負担が小さい</strong>と考えているからです。年齢や肌状態からどちらのシリーズが向くかの考え方は、<a href="/column/udot-target-age/" style="color:#0969da; text-decoration:none; border-bottom:1px solid #eaeef2;">何歳から使う想定のシリーズか</a>で扱っています。</p>
+<p style="margin:14px 0; line-height:1.7;">オルビスは、ユードットを毛穴の商品として案内していません。毛穴が目立つ理由は皮脂由来と年齢由来で異なり、同じ言葉で語ると読者の期待とずれるためです。そのうえで、否定的な声が混合肌・脂性肌とクリームに集中している事実もそのままお伝えします。<strong>合わない条件を先に知っていただくことが、返品や途中でのお取りやめよりお客様の負担が小さい</strong>と考えているからです。年齢や肌状態からどちらのシリーズが向くかの考え方は、<a href="/column/udot-target-age/" style="color:#0969da; text-decoration:none; border-bottom:1px solid #eaeef2;">何歳から使う想定のシリーズか</a>で扱っています。</p>
 <h2 style="font-size:24px; font-weight:600; margin:32px 0 16px; padding-bottom:8px; border-bottom:1px solid #eaeef2; line-height:1.3;">よくある質問</h2>
-<p style="margin:14px 0; line-height:1.7;"><strong>Q. オルビスユー ドットを使うと毛穴が目立つようになりますか？</strong><br>A. 収集した852件のうち、毛穴が目立つようになったという体験は8件でした。8件中7件は混合肌・脂性肌の方からの投稿で、品目はクリームとトライアルセットに5件が集中しています。皮脂が出やすい肌質の方は量を控えめに始めることをおすすめします。</p>
-<p style="margin:14px 0; line-height:1.7;"><strong>Q. クリームは毛穴に詰まりますか？</strong><br>A. 公式レビューでの評価は★4.22です（商品に対する満足度。オルビスみんなのクチコミより。2026年8月時点、n=676）。毛穴について否定的だった体験は集計上3件で、いずれも塗った後の膜のような感触とべたつきに触れていました。体温に触れて密着する設計のため、季節と肌質に応じて量を調整してください。</p>
-<p style="margin:14px 0; line-height:1.7;"><strong>Q. 洗顔料だけを使う形でも問題ありませんか？</strong><br>A. 使い方として問題はありません。毛穴に触れた洗顔料の投稿10件のうち7件は、洗い上がりの感触について書かれたものでした。ただし洗顔料の働きは洗浄による物理的効果の範囲であり、角栓や黒ずみへの対処を目的とする場合は別のお手入れが必要になります。</p>
-<p style="margin:14px 0; line-height:1.7;"><strong>Q. 毛穴に触れた投稿のうち否定的でなかったものは、毛穴への効果として読んでよいですか？</strong><br>A. 効果として読むものではありません。化粧品が表示できる効能56項目に「毛穴」を含む項目はなく、オルビスの商品ページでも毛穴を効能として表示していません。投稿はいずれも個人の感想であり、受け取り方には個人差があります。この記事で件数を示しているのは、毛穴が目立つようになったという否定的な体験がどの条件に集中していたかをお伝えするためです。</p>
+<p style="margin:14px 0; line-height:1.7;"><strong>Q. ユードットを使うと毛穴が目立つようになりますか？</strong><br>A. 収集した852件のうち、毛穴が目立つようになったという体験は8件でした。8件中7件は混合肌・脂性肌の方からの投稿で、品目はクリームとトライアルセットに5件が集中しています。皮脂が出やすい肌質の方は量を控えめに始めることをおすすめします。</p>
+<p style="margin:14px 0; line-height:1.7;"><strong>Q. クリームは毛穴に詰まりますか？</strong><br>A. 公式レビューでの評価は★4.22（676件・2026年8月時点）で、毛穴について否定的だった体験は集計上3件です。いずれも塗った後の膜のような感触とべたつきに触れていました。オルビスが「まろやかに伸びた後、皮膚温伝播で弾力の高い膜を形成」と説明しているとおり、体温で密着して膜を作る設計のため、季節と肌質に応じて量を調整してください。</p>
+<p style="margin:14px 0; line-height:1.7;"><strong>Q. 洗顔料だけを使う形でも問題ありませんか？</strong><br>A. 使い方として問題はありません。毛穴に触れた洗顔料の投稿10件のうち7件は洗い上がりのざらつきについて肯定的でした。ただし洗顔料の働きは洗浄による物理的効果の範囲であり、角栓や黒ずみへの対処を目的とする場合は別のお手入れが必要になります。</p>
+<p style="margin:14px 0; line-height:1.7;"><strong>Q. 「毛穴が目立たなくなった」という声は何を指していますか？</strong><br>A. 肯定側15件の多くは、うるおいが行き渡ったあとの見た目の変化について書かれたものでした。効能として承認されている内容ではなく、あくまで個人の感想です。オルビスの商品ページでも毛穴を効能として表示してはいません。</p>
 <p style="margin:14px 0; line-height:1.7;">否定的な評価がどの論点にどれだけ集まっているのかは、<a href="/column/udot-review/" style="color:#0969da; text-decoration:none; border-bottom:1px solid #eaeef2;">ネガティブ評価の全体像を確認する</a>と品目ごとの序列まで把握できます。</p>
 <h2 style="font-size:24px; font-weight:600; margin:32px 0 16px; padding-bottom:8px; border-bottom:1px solid #eaeef2; line-height:1.3;">まとめ</h2>
-<p style="margin:14px 0; line-height:1.7;">852件の口コミのうち、毛穴が目立つようになったという体験は8件で、その7件は混合肌・脂性肌の方からのものでした。オルビスは毛穴を皮脂毛穴と年齢毛穴に分けて考えており、オルビスユー ドットを案内しているのは年齢毛穴のほうです。ご自身の毛穴がどちらに近いかを見極めてから選んでいただくと、期待とのずれが起きにくくなります。皮脂が出やすい肌質の方は、クリームの量を控えめにするところから始めてみてください。判断に迷う場合は、7日間分のセットで使用感を確かめる方法があります（発送日から30日以内の返品制度もご用意しています）。</p>
+<p style="margin:14px 0; line-height:1.7;">852件の口コミのうち、毛穴が目立つようになったという体験は8件で、その7件は混合肌・脂性肌の方からのものでした。オルビスは毛穴を皮脂毛穴と年齢毛穴に分けて考えており、ユードットを案内しているのは年齢毛穴のほうです。ご自身の毛穴がどちらに近いかを見極めてから選んでいただくと、期待とのずれが起きにくくなります。皮脂が出やすい肌質の方は、クリームの量を控えめにするところから始めてみてください。判断に迷う場合は、7日間分のセットで使用感を確かめる方法があります（発送日から30日以内の返品制度もご用意しています）。</p>
 <!-- wp:group {"style":{"border":{"radius":"16px","color":"#088010","style":"solid","width":"1px"},"spacing":{"padding":{"top":"24px","right":"20px","bottom":"24px","left":"20px"}}},"layout":{"type":"constrained"}} -->
 <div class="wp-block-group has-border-color" style="border-color:#088010;border-style:solid;border-width:1px;border-radius:16px;padding-top:24px;padding-right:20px;padding-bottom:24px;padding-left:20px">
 <!-- wp:paragraph {"align":"center","style":{"typography":{"fontWeight":"700"}}} -->
